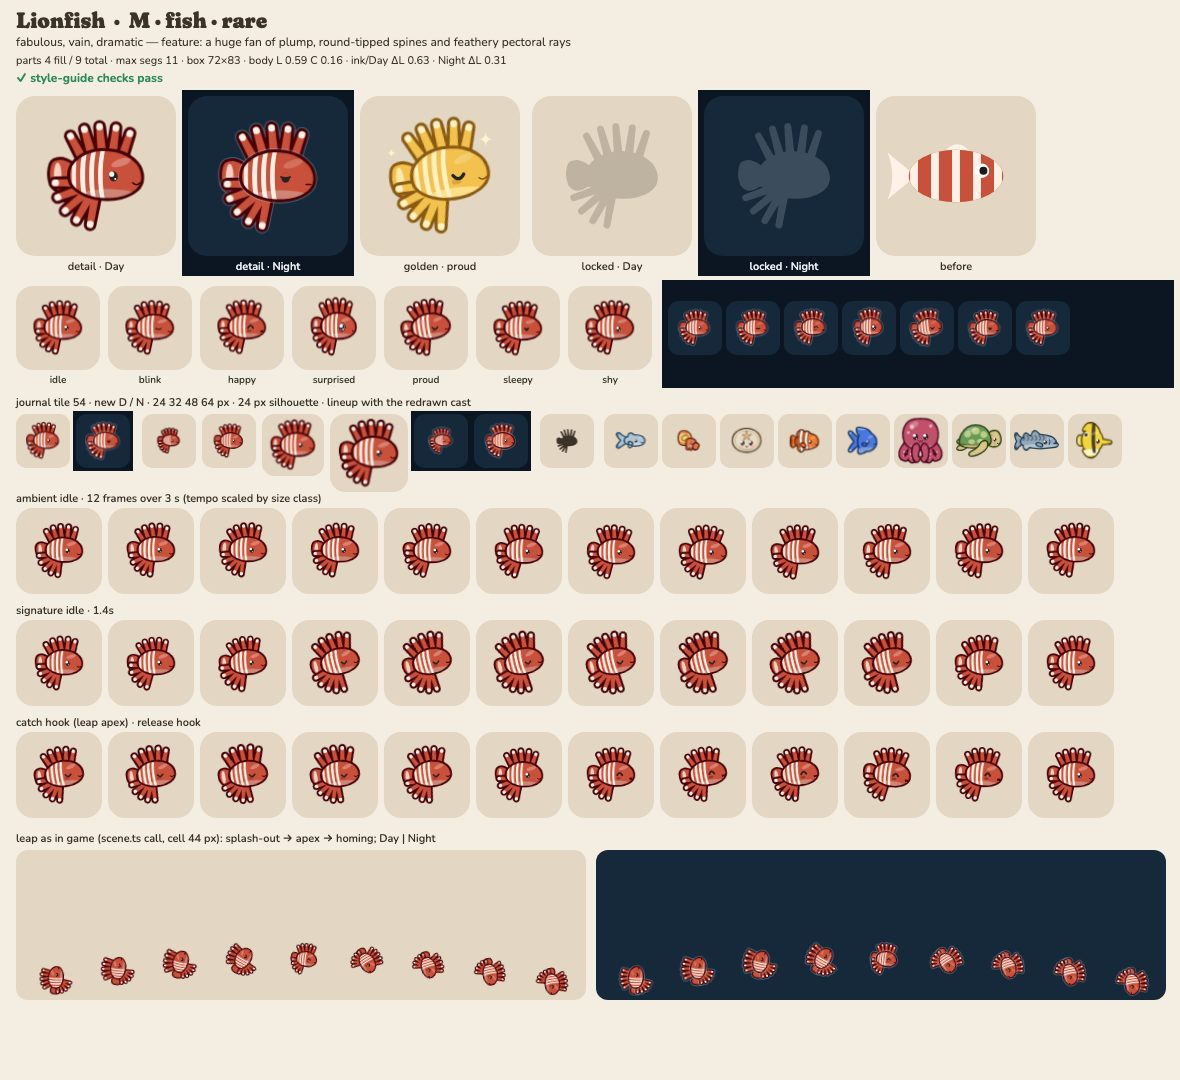
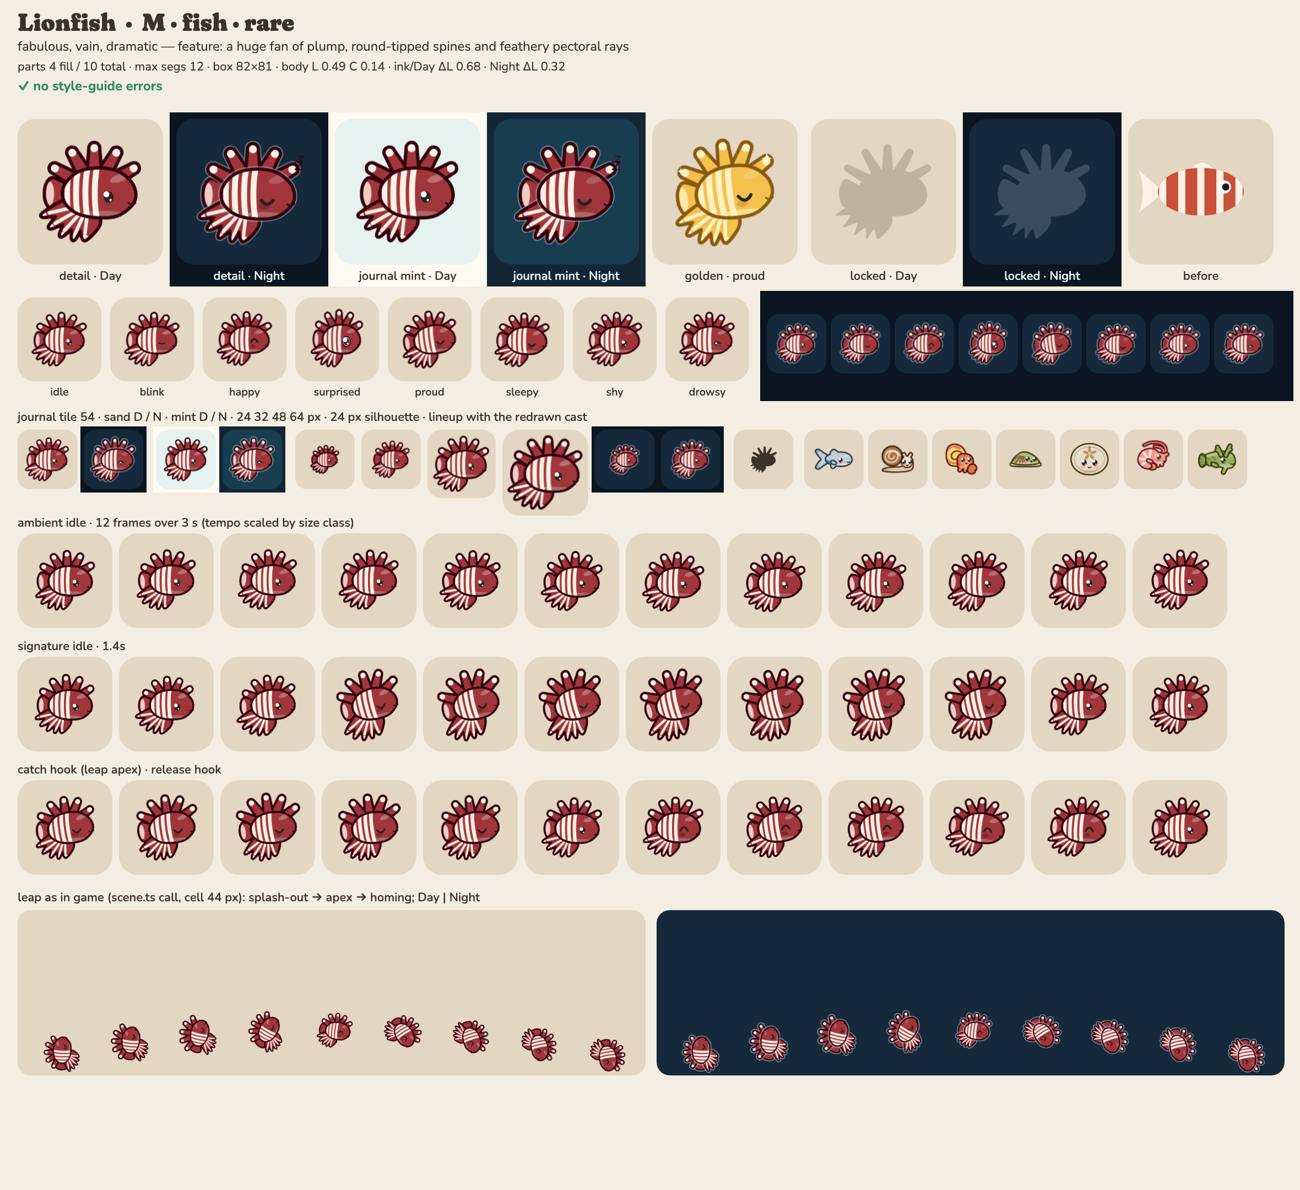
render: lionfish own palette (ADR 0011)
Off the box crab hex: maroon-red #A0363C + cream #FFF1E6 (CRITIQUE-3).
The critique's #B8423F sits dE 4.9 from the box crab and fails the
Night rim (L 0.54 gets the light rim alpha); L 0.49 takes the dark-body
rim (Night dL 0.32) with an R16 dark-identity note; dE >= 8.9 from
every body. Sheet: no errors; 54 px reads as a lionfish.

diff --git a/src/render/art/species/lionfish.ts b/src/render/art/species/lionfish.ts
@@ -86,7 +86,10 @@ export default defineArt({
   size: 'M',
   feature: 'a huge fan of plump, round-tipped spines and feathery pectoral rays',
   personality: ['fabulous', 'vain', 'dramatic'],
-  palette: { body: '#C9503A', accent: '#FFF1E6' },
+  palette: { body: '#A0363C', accent: '#FFF1E6' },
+  deviations: {
+    R16: 'dark maroon identity L 0.49 (CRITIQUE-3 maroon-red, off the box crab hex; the dark-body rim carries Night)',
+  },
   groups: [
     {
       id: 'tail',
